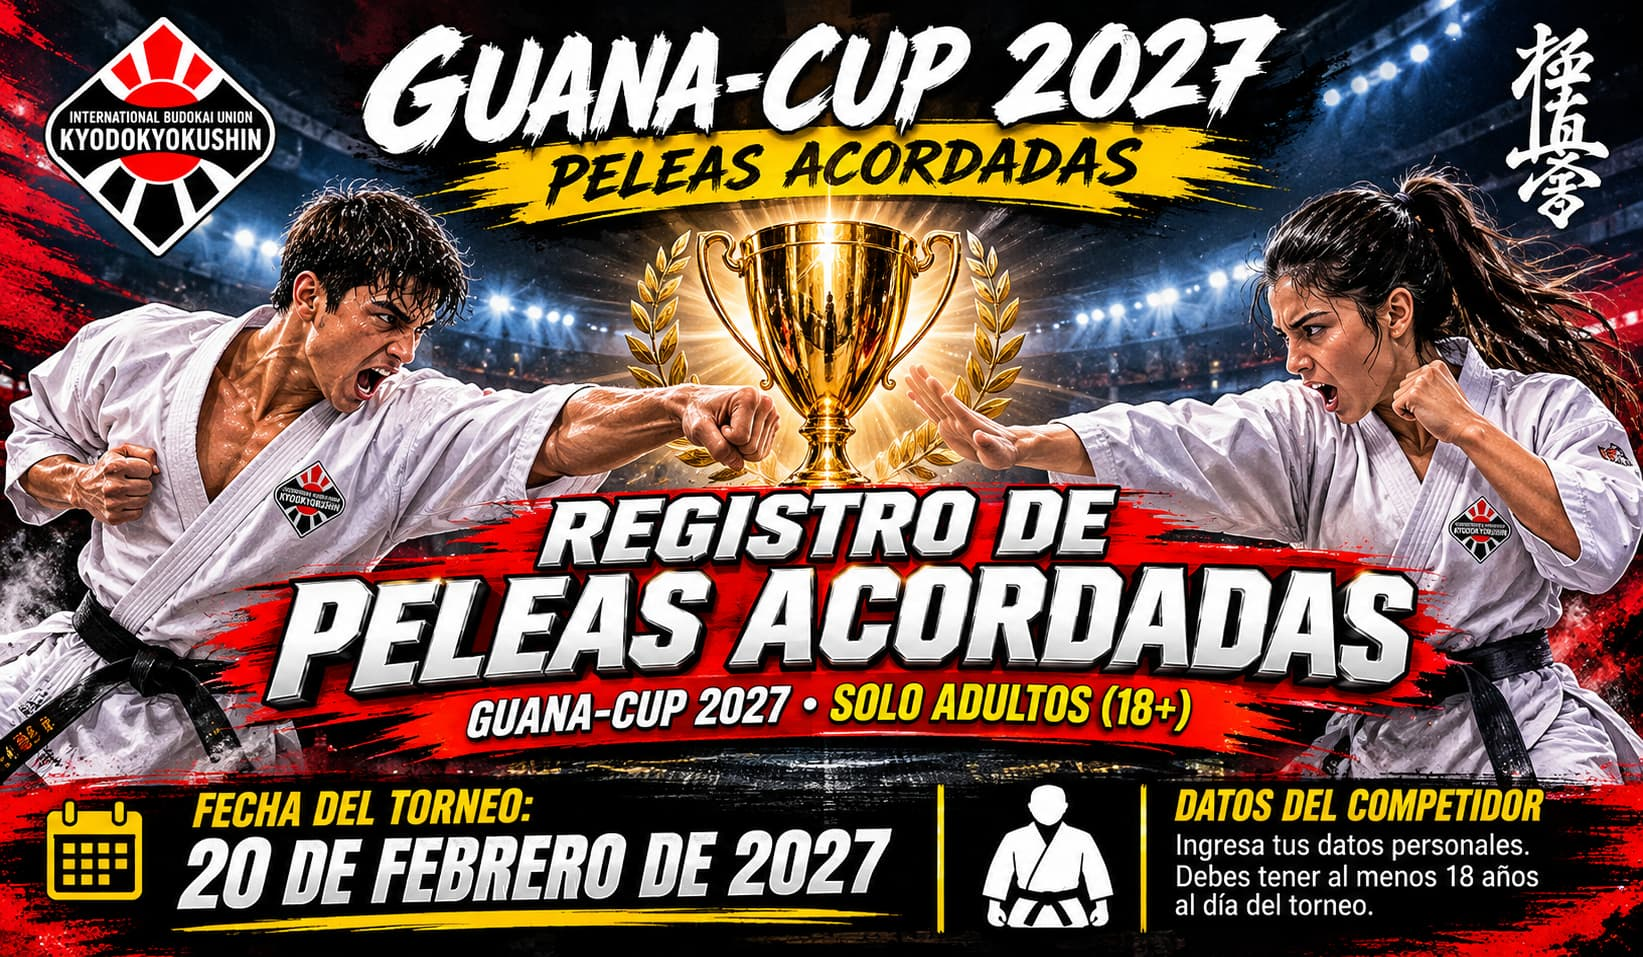
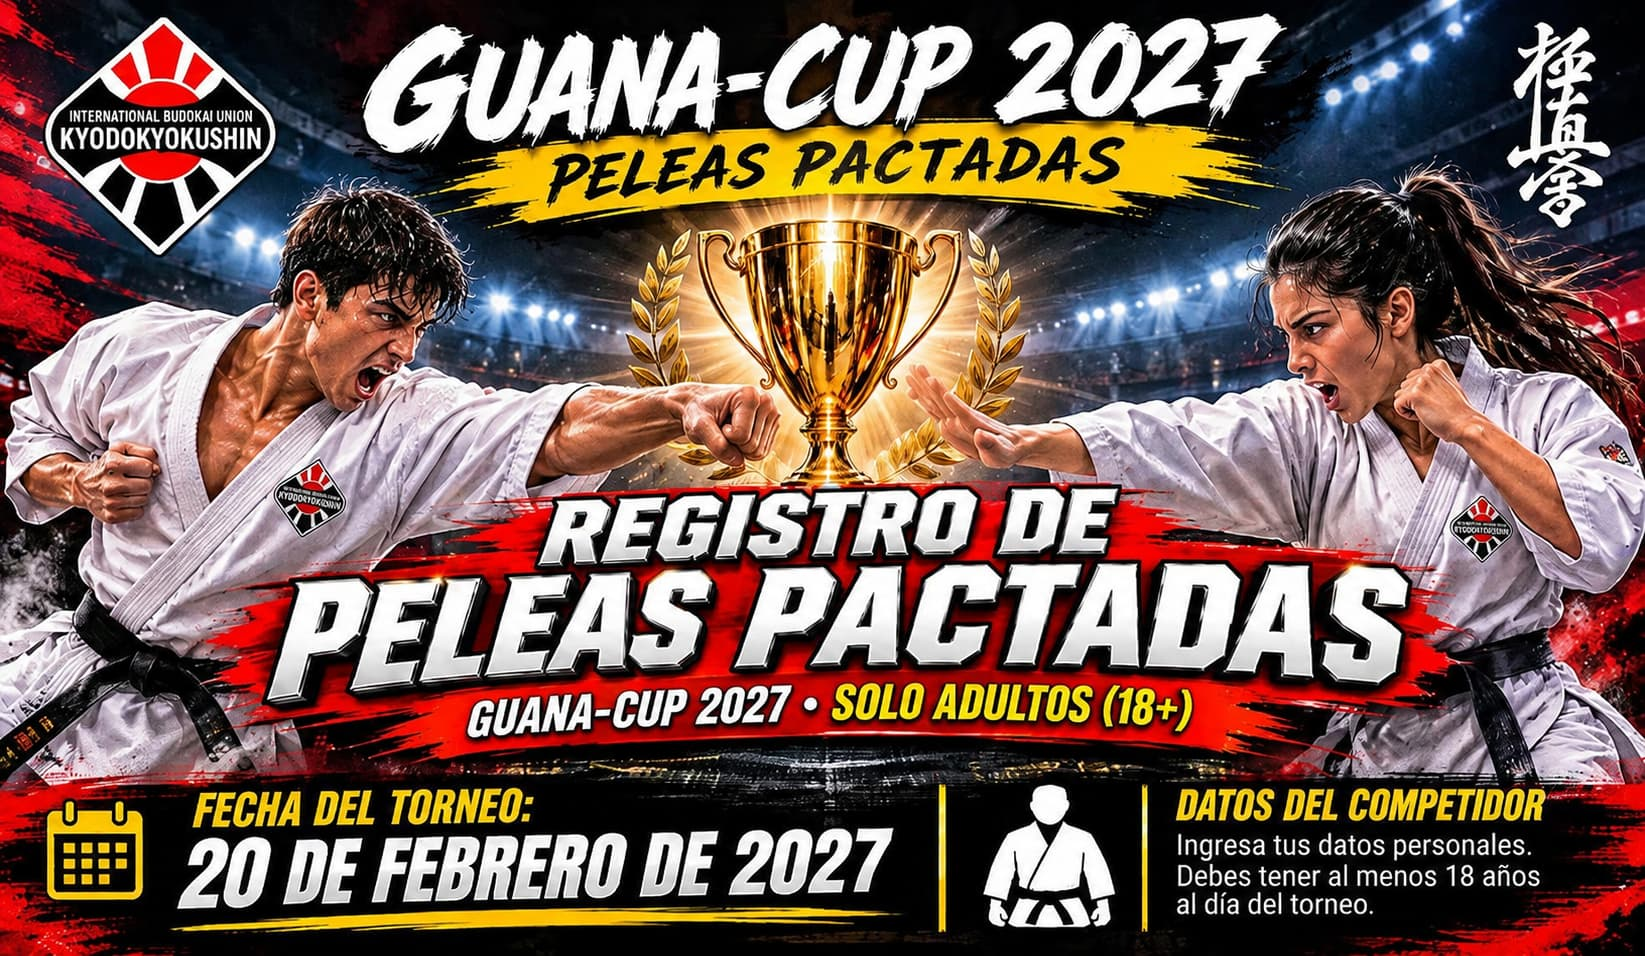
Se realizan cambios al sitio de peleas pactadas

diff --git a/GuanaCup2/index.html b/GuanaCup2/index.html
@@ -12,7 +12,7 @@
     <!-- Etiquetas Open Graph para WhatsApp -->
     <meta property="og:title" content="Registro de Adultos">
     <meta property="og:description"
-        content="Inscripción al Registro de Adultos - Peleas Pactadas. Guana-Cup 2027 - Kyokushin IBU. 20 de febrero de 2027. ¡Aquí nacen los campeones!">
+        content="Inscripción al Registro de Adultos - Peleas Pactadas - Guana - Cup 2027">
     <meta property="og:image" content="https://karate.innocr.com/assets/img/afiche2.jpg">
     <meta property="og:type" content="website">
 
